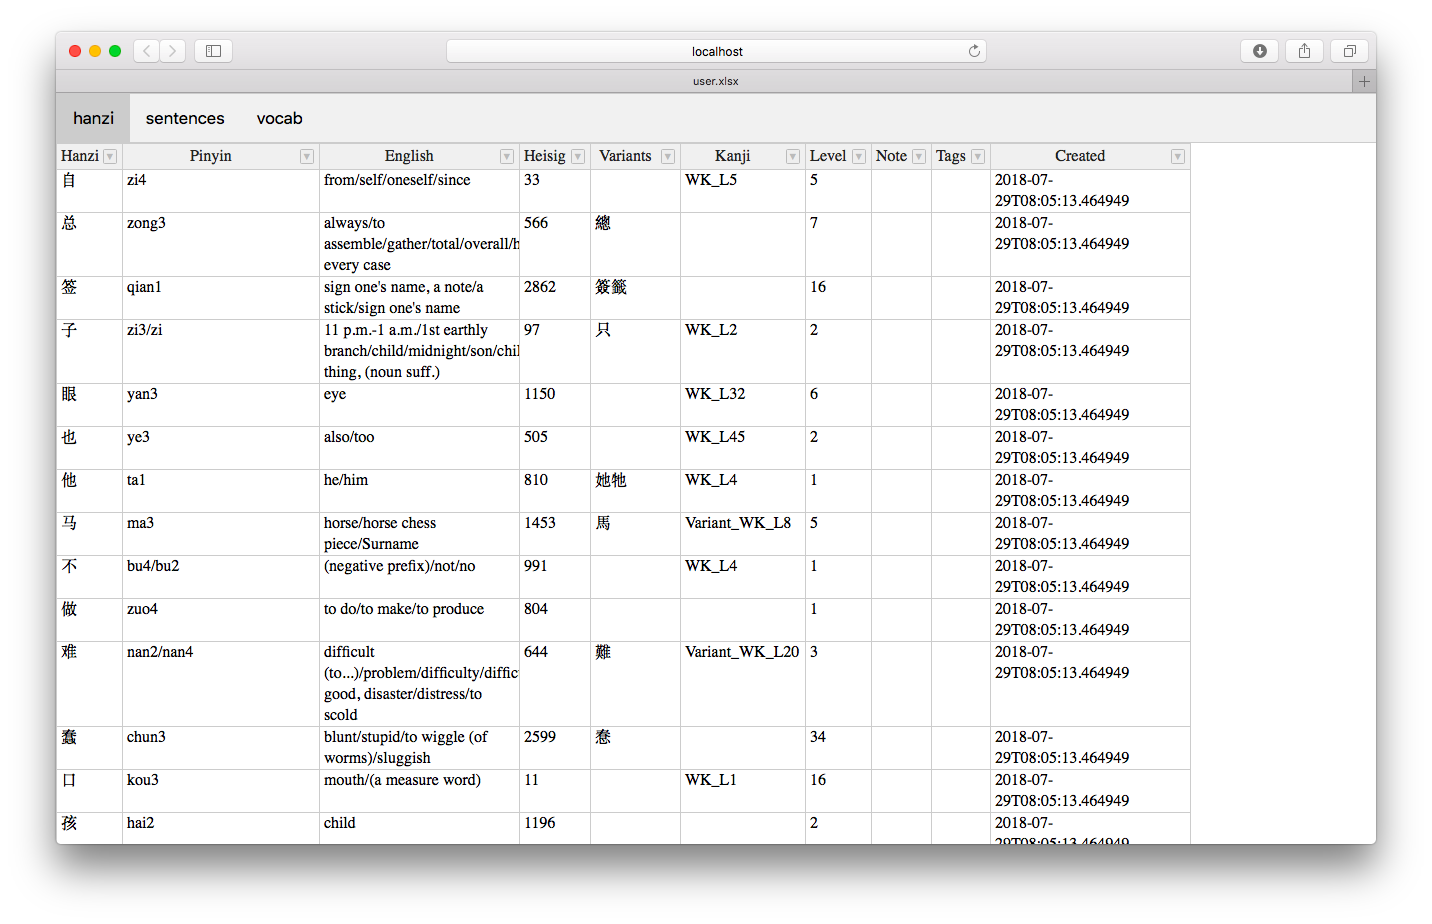
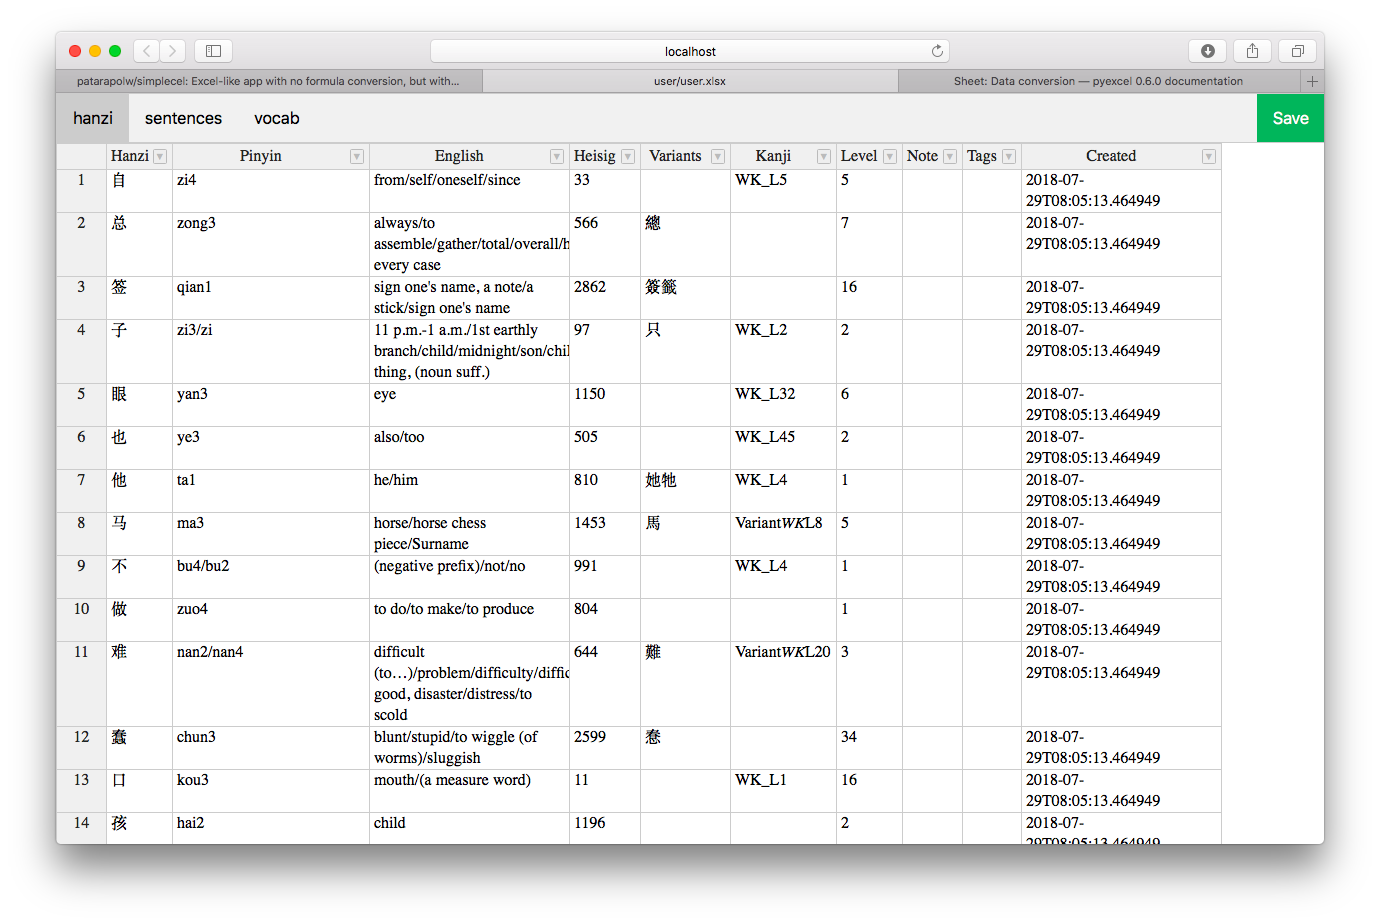
Add save button and tested.

diff --git a/simplecel/static/index.js b/simplecel/static/index.js
@@ -1,4 +1,5 @@
 const sheetNames = Object.keys(data);
+let sheetNumber = 0;
 let hot;
 let innerHTML = [];
 
@@ -8,12 +9,17 @@ sheetNames.forEach((item, index)=>{
 
 const tabArea = document.getElementById('tab-area');
 const container = document.getElementById('handsontable-container');
-tabArea.innerHTML = innerHTML.join('');
+tabArea.innerHTML = innerHTML.join('') + tabArea.innerHTML;
 
 Array.from(document.getElementsByClassName('tab-links')).forEach((item, index)=>{
   item.addEventListener('click', ()=>{
-    if(hot !== undefined) hot.destroy();
-    loadExcelSheet(index);
+    if(hot !== undefined){
+      data[sheetNames[sheetNumber]] = hot.getData();
+      hot.destroy();
+    }
+
+    sheetNumber = index
+    loadExcelSheet();
 
     Array.from(document.getElementsByClassName('tab-links')).forEach((item2, index2)=>{
       item2.className = item2.className.replace(' active', '');
@@ -21,7 +27,22 @@ Array.from(document.getElementsByClassName('tab-links')).forEach((item, index)=>
     item.className += ' active';
   });
 
-  if(index === 0) item.click();
+  if(index === sheetNumber) item.click();
+});
+
+document.getElementById('save').addEventListener('click', ()=>{
+  fetch('/api/save',{
+    method: 'post',
+    headers: {
+      "Content-Type": "application/json; charset=utf-8"
+    },
+    body: JSON.stringify({
+      config: config,
+      data: data
+    })
+  }).then((resp)=>{
+    alert('Saved!');
+  })
 });
 
 window.addEventListener('resize', ()=>{
@@ -39,7 +60,7 @@ function getTrueWindowDimension(){
   };
 }
 
-function loadExcelSheet(sheetNumber) {
+function loadExcelSheet() {
   const dimension = getTrueWindowDimension();
 
   Object.assign(container.style, dimension);
@@ -97,7 +118,6 @@ function loadExcelSheet(sheetNumber) {
       if(width > actualConfig.maxColWidth) return actualConfig.maxColWidth;
     }
   }
-  console.log(actualConfig);
 
   hot = new Handsontable(document.getElementById('handsontable-area'), actualConfig);
 
@@ -108,10 +128,17 @@ function loadExcelSheet(sheetNumber) {
     });
 
     hot.updateSettings({
-      modifyColWidth: ()=>{},
       colWidths: colWidths
     });
 
     actualConfig.colWidths = config[sheetNames[sheetNumber]].colWidths = colWidths;
   }
+
+  hot.updateSettings({
+    modifyColWidth: (width, column)=>{
+      actualConfig.colWidths[column]
+        = config[sheetNames[sheetNumber]].colWidths[column]
+        = width;
+    }
+  })
 }

diff --git a/simplecel/static/index.css b/simplecel/static/index.css
@@ -2,16 +2,20 @@ body {
   margin: 0px;
 }
 
-#tab-area {
-  overflow-x: scroll;
+#nav-area {
   border: 1px solid #ccc;
   background-color: #f1f1f1;
   display: inline-table;
   width: 100%;
 }
 
+#tab-area {
+  overflow-x: scroll;
+  display: inline-table;
+}
+
 /* Style the buttons that are used to open the tab content */
-.tab-links {
+.tab-links, #save {
   background-color: inherit;
   border: none;
   outline: none;
@@ -30,6 +34,13 @@ body {
 /* Create an active/current tablink class */
 .tab-links.active {
   background-color: #ccc;
+}
+
+#save {
+  float: right;
+  z-index: 100;
+  background-color: #27ae60;
+  color: white;
 }
 
 #handsontable-container {

diff --git a/simplecel/templates/index.html b/simplecel/templates/index.html
@@ -14,7 +14,10 @@
   <title>{{ title }}</title>
 </head>
 <body>
-  <div id="tab-area"></div>
+  <div id="nav-area">
+    <div id="tab-area"></div>
+    <button id="save">Save</button>
+  </div>
 
   <div id="handsontable-container">
     <div id="handsontable-area"></div>

diff --git a/simplecel/views.py b/simplecel/views.py
@@ -10,20 +10,24 @@ from . import app
 
 @app.route('/')
 def open_file():
-    filename_path = Path(os.environ.get('FILENAME', ''))
+    filename_path = Path(os.environ.get('FILENAME', 'simplecel.xlsx'))
     if filename_path.exists():
         data = pyexcel.get_book_dict(file_name=str(filename_path))
     else:
-        data = dict()
+        data = dict(Sheet1=[[''] * 5] * 5)
 
-    config_path = Path(os.environ.get('CONFIG', ''))
+    config_path = Path(os.environ.get('CONFIG', str(filename_path.parent)))
     if config_path.is_dir():
-        os.environ['META'] = str(config_path.joinpath(filename_path.name).with_suffix('.config.json'))
-        config = dict()
-    elif config_path.exists():
+        config_path = config_path.joinpath(filename_path.name).with_suffix('.config.json')
+        os.environ['CONFIG'] = str(config_path)
+
+    if config_path.exists():
         config = json.loads(config_path.read_text())
     else:
         config = dict()
+
+    os.environ['FILENAME'] = str(filename_path)
+    os.environ['CONFIG'] = str(config_path)
 
     return render_template('index.html',
                            title=str(filename_path), data=data, config=config)

diff --git a/simplecel/api.py b/simplecel/api.py
@@ -1,0 +1,32 @@
+from flask import request, Response
+import pyexcel
+import os
+import json
+from pathlib import Path
+
+try:
+    import pyexcel_export
+except ModuleNotFoundError:
+    pass
+
+from . import app
+
+
+@app.route('/api/save', methods=['POST'])
+def save():
+    filename_path = Path(os.environ['FILENAME'])
+    config_path = Path(os.environ['CONFIG'])
+
+    content = request.get_json()
+
+    try:
+        pyexcel_export.save_data(str(filename_path), content['data'])
+    except NameError:
+        pyexcel.save_book_as(
+            bookdict=content['data'],
+            dest_file_name=str(filename_path)
+        )
+
+    config_path.write_text(json.dumps(content['config'], indent=2, ensure_ascii=False))
+
+    return Response(status=200)
